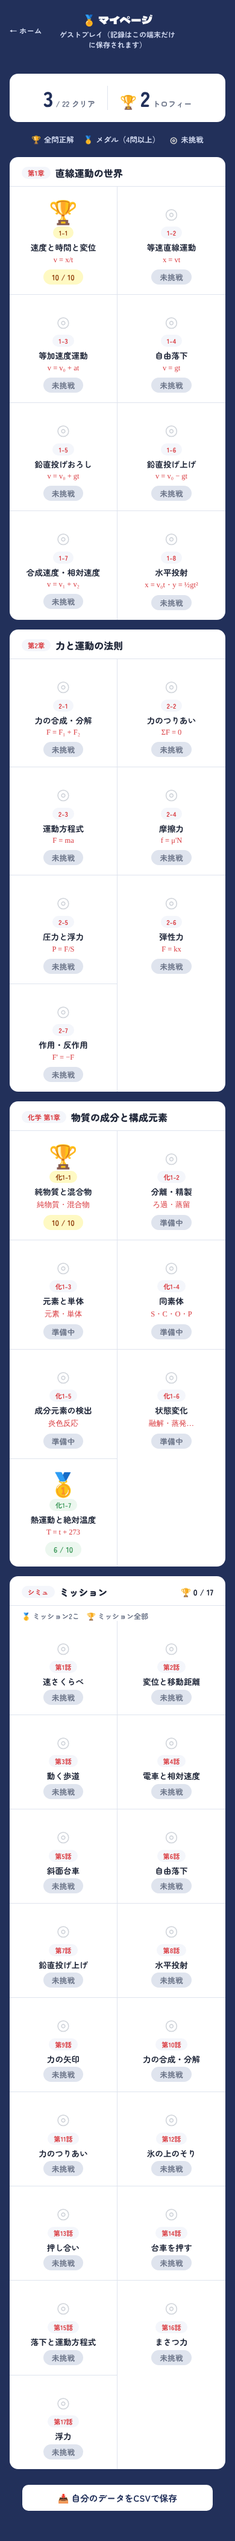
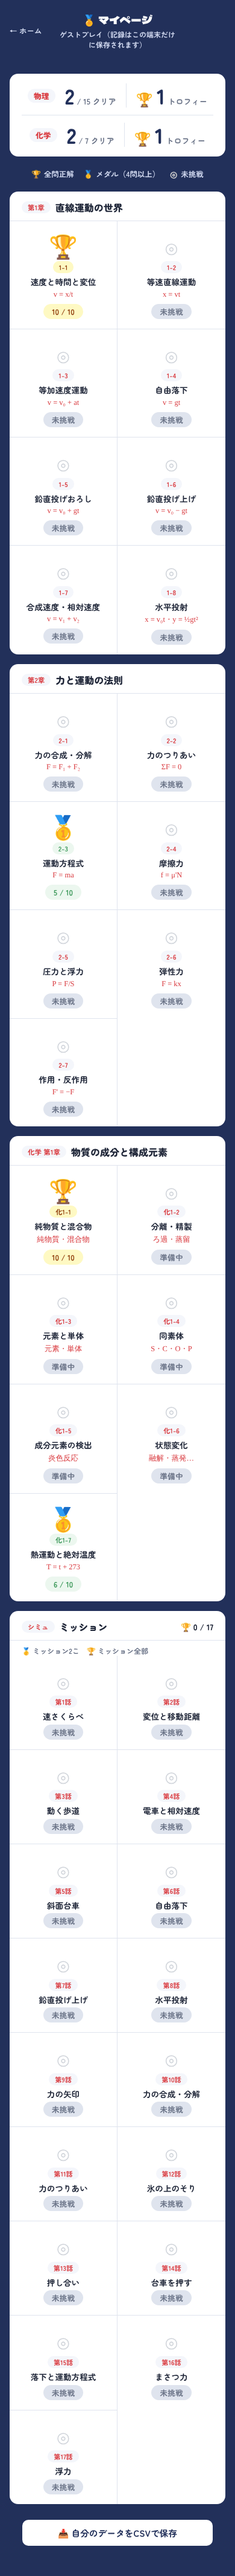
T-44: マイページの「◯ / ◯ クリア」を物理と化学の2行に分ける
Claude-Session: https://claude.ai/code/session_011omp4Mg4wi1i7SftFg17Rj

Changed region(s): [[0.0308, 0.0, 0.9538, 0.9967], [0.3077, 0.9655, 0.3692, 0.9967]]

diff --git a/physics/mypage.html b/physics/mypage.html
@@ -131,26 +131,33 @@
       }
       const data = readStore(`wakuwakupub_progress_${sid}`, {});
 
-      // ── サマリー ──
-      let cleared = 0, trophies = 0;
-      UNITS.forEach(u => {
-        if (data[u.id] && data[u.id].bestScore >= 4) {   // メダル（4問以上）でクリア
-          cleared++;
-          if (data[u.id].perfect) trophies++;
-        }
-      });
-      document.getElementById('mp-summary').innerHTML = `
-        <div class="mp-stat">
-          <span class="mp-stat-num">${cleared}</span>
-          <span class="mp-stat-lbl">/ ${UNITS.length} クリア</span>
-        </div>
-        <div class="mp-stat-div"></div>
-        <div class="mp-stat">
-          <span class="mp-stat-icon">🏆</span>
-          <span class="mp-stat-num">${trophies}</span>
-          <span class="mp-stat-lbl">トロフィー</span>
-        </div>
-      `;
+      // ── サマリー（物理と化学で分ける）──
+      const sumRow = (label, list) => {
+        let cleared = 0, trophies = 0;
+        list.forEach(u => {
+          if (data[u.id] && data[u.id].bestScore >= 4) {   // メダル（4問以上）でクリア
+            cleared++;
+            if (data[u.id].perfect) trophies++;
+          }
+        });
+        return `
+        <div class="mp-sum-row">
+          <span class="mp-sum-sub">${label}</span>
+          <div class="mp-stat">
+            <span class="mp-stat-num">${cleared}</span>
+            <span class="mp-stat-lbl">/ ${list.length} クリア</span>
+          </div>
+          <div class="mp-stat-div"></div>
+          <div class="mp-stat">
+            <span class="mp-stat-icon">🏆</span>
+            <span class="mp-stat-num">${trophies}</span>
+            <span class="mp-stat-lbl">トロフィー</span>
+          </div>
+        </div>`;
+      };
+      const isChem = u => String(u.ch).startsWith('c');
+      document.getElementById('mp-summary').innerHTML =
+        sumRow('物理', UNITS.filter(u => !isChem(u))) + sumRow('化学', UNITS.filter(isChem));
 
       // ── CSV ダウンロード ──
       function downloadCSV(entries, filename) {

diff --git a/physics/mypage.css b/physics/mypage.css
@@ -306,3 +306,9 @@ body {
 .mp-sim-head .mp-section-num { white-space: nowrap; }
 .mp-sim-count { margin-left: auto; font-size: 0.85rem; font-weight: 800; color: #1f2638; white-space: nowrap; }
 .mp-sim-note { padding: 8px 20px 0; font-size: 0.75rem; font-weight: 700; color: #6b7488; }
+
+/* ---- サマリーを物理と化学の2行に（T-44） ---- */
+.mp-summary { flex-direction: column; gap: 12px; padding: 16px 20px; }
+.mp-sum-row { display: flex; align-items: center; justify-content: center; gap: 16px; width: 100%; }
+.mp-sum-row + .mp-sum-row { border-top: 1px solid #dfe4ee; padding-top: 12px; }
+.mp-sum-sub { font-size: 0.8rem; font-weight: 800; color: #d93a3f; background: #f4f6fb; padding: 2px 10px; border-radius: 999px; white-space: nowrap; }

diff --git a/docs/tasks.md b/docs/tasks.md
@@ -223,7 +223,8 @@ Claude Code にこう送るだけ：
 - [x] **T-44　化学のチャレンジの入り口とマイページ** ☕
   - トップ画面の「化学 → チャレンジ」を単元一覧（`chemistry/units.html`）へ。元素・周期表ドリルは単元一覧の中に「別枠」で
   - マイページ（`physics/mypage.html`）に「化学 第1章」の欄
-  - さわる場所：`index.html`（リンク1つ）、`chemistry/units.html`、`chemistry/index.html`（もどるリンク）、`physics/mypage.html`
+  - マイページのいちばん上の「◯ / ◯ クリア」を物理と化学で分ける
+  - さわる場所：`index.html`（リンク1つ）、`chemistry/units.html`、`chemistry/index.html`（もどるリンク）、`physics/mypage.html`・`physics/mypage.css`
 
 - [ ] **T-43　化学1章のドリル（化1-1〜化1-7）** 🌙
   - 化1-2〜化1-6 を作る。化1-1・化1-7 も話の場面にそろえて見直す。問題に場面の絵を入れる（`pic`）
